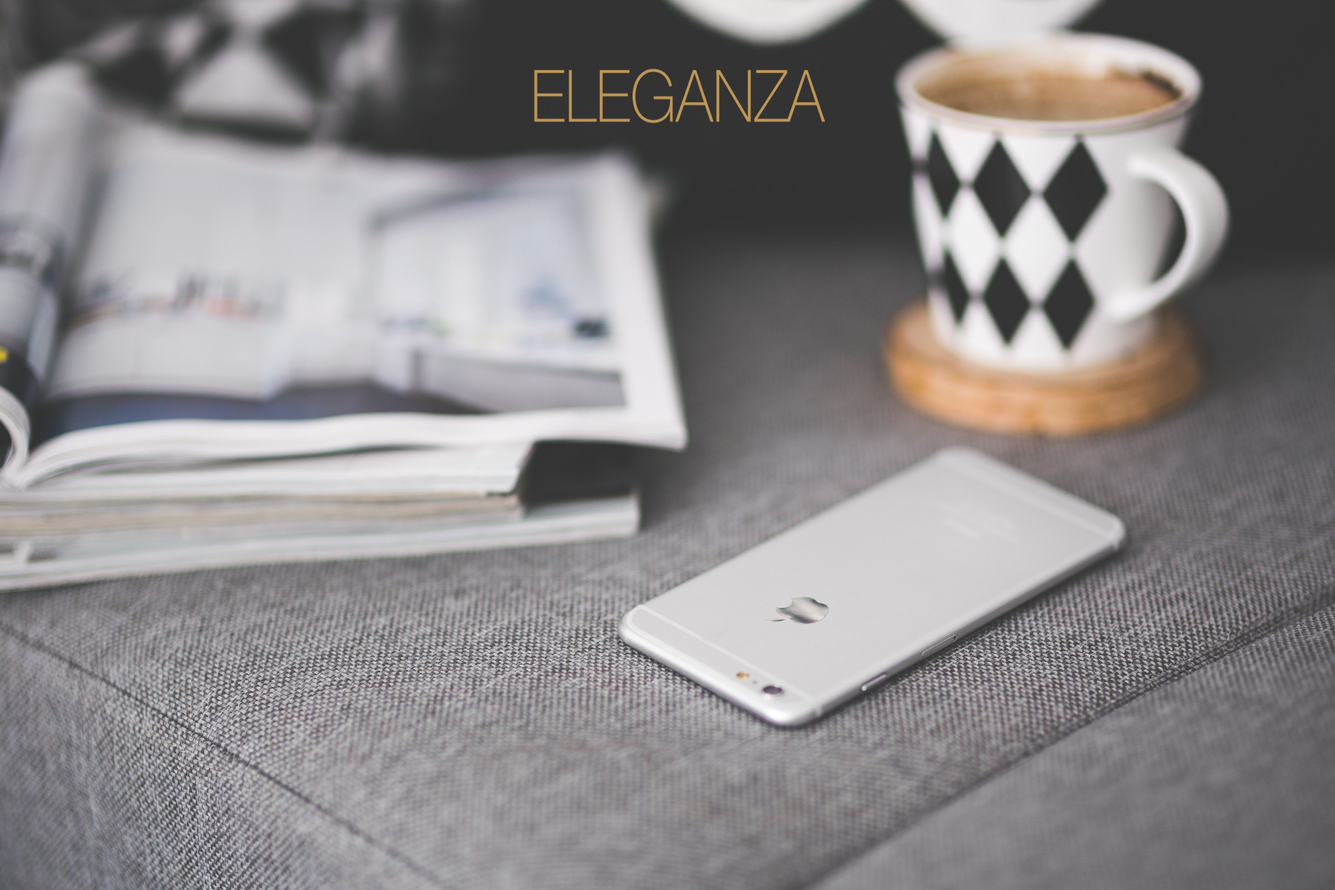
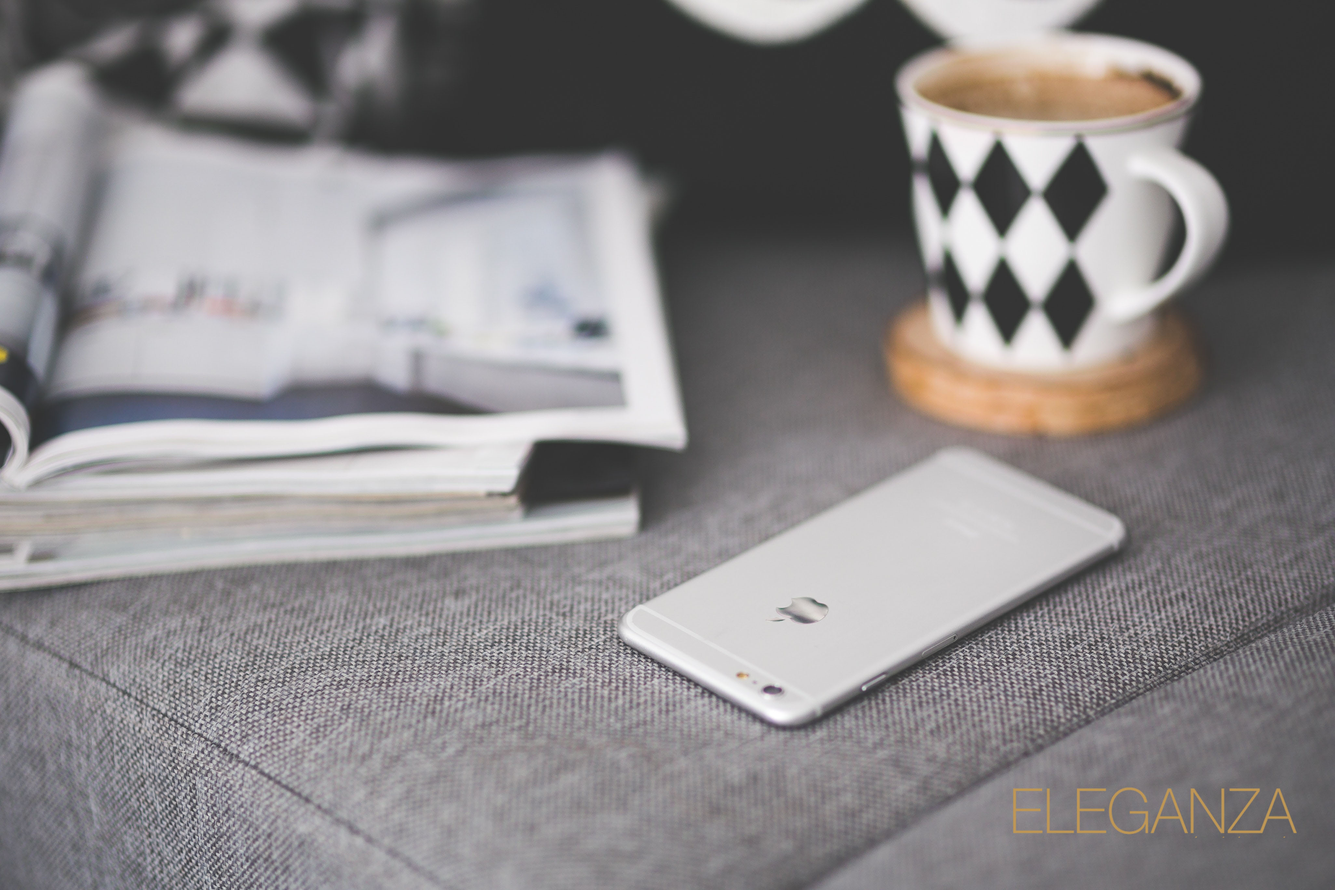
Subscriber

Changed region(s): [[0.4055, 0.0621, 0.6238, 0.1553], [0.7485, 0.8699, 0.9669, 0.932]]

diff --git a/subscriber/assets/css/main.css b/subscriber/assets/css/main.css
@@ -544,9 +544,10 @@ input, select, textarea {
 
 		#header h1 {
 			font-size: 4.35em;
-			font-weight: 900;
+			font-weight: 300;
 			letter-spacing: -0.035em;
-			line-height: 1em;
+			font-family: 'Lato';
+			color: #d1af78;
 		}
 
 		#header p {
@@ -1079,3 +1080,41 @@ input, select, textarea {
 		    text-decoration:none;
 		    cursor:pointer;
 		   }
+
+			 .input-field label {
+			     color: #f8f9fa !important;
+			     position: absolute;
+			     top: 0.8rem;
+			     left: 0;
+			     font-size: 1.1rem !important;
+			     cursor: text;
+			     transition: .2s ease-out;
+			     text-align: initial;
+			 }
+			 .btn:hover, .btn-large:hover {
+			     background-color: #d1af78 !important;
+			 }
+.input-field input[type=text].invalid {
+	 color: #f8f9fa !important;
+}
+input:not([type]), input[type=text], input[type=password], input[type=email], input[type=url], input[type=time], input[type=date], input[type=datetime], input[type=datetime-local], input[type=tel], input[type=number], input[type=search], textarea.materialize-textarea {
+    background-color: transparent;
+    border: none;
+    border-bottom: 1px solid #9e9e9e;
+    border-radius: 0;
+    outline: none;
+    height: 3rem;
+    width: 100%;
+    font-size: 2rem !important ;
+    margin: 0 0 20px 0;
+    padding: 0;
+    box-shadow: none;
+    box-sizing: content-box;
+    transition: all 0.3s;
+}
+fieldset {
+    border: 4px solid #c0c0c0 !important;
+		border-style: double !important;
+    margin: 0 2px;
+    padding: 0.35em 0.625em 0.75em;
+}

diff --git a/subscriber/index.php b/subscriber/index.php
@@ -26,10 +26,10 @@ if(!empty($_SESSION['got'])){
     <link rel="stylesheet" href="assets/css/main.css"/>
 <link href="http://fonts.googleapis.com/icon?family=Material+Icons" rel="stylesheet">
 <link rel="stylesheet" href="https://cdnjs.cloudflare.com/ajax/libs/materialize/0.98.2/css/materialize.min.css">
-<link rel="stylesheet" href="https://stackpath.bootstrapcdn.com/bootstrap/4.1.3/css/bootstrap.min.css" integrity="sha384-MCw98/SFnGE8fJT3GXwEOngsV7Zt27NXFoaoApmYm81iuXoPkFOJwJ8ERdknLPMO" crossorigin="anonymous">
+<!-- <link rel="stylesheet" href="https://stackpath.bootstrapcdn.com/bootstrap/4.1.3/css/bootstrap.min.css" integrity="sha384-MCw98/SFnGE8fJT3GXwEOngsV7Zt27NXFoaoApmYm81iuXoPkFOJwJ8ERdknLPMO" crossorigin="anonymous"> -->
 <script src="https://code.jquery.com/jquery-3.3.1.slim.min.js" integrity="sha384-q8i/X+965DzO0rT7abK41JStQIAqVgRVzpbzo5smXKp4YfRvH+8abtTE1Pi6jizo" crossorigin="anonymous"></script>
 <script src="https://cdnjs.cloudflare.com/ajax/libs/popper.js/1.14.3/umd/popper.min.js" integrity="sha384-ZMP7rVo3mIykV+2+9J3UJ46jBk0WLaUAdn689aCwoqbBJiSnjAK/l8WvCWPIPm49" crossorigin="anonymous"></script>
-<script src="https://stackpath.bootstrapcdn.com/bootstrap/4.1.3/js/bootstrap.min.js" integrity="sha384-ChfqqxuZUCnJSK3+MXmPNIyE6ZbWh2IMqE241rYiqJxyMiZ6OW/JmZQ5stwEULTy" crossorigin="anonymous"></script>
+<!-- <script src="https://stackpath.bootstrapcdn.com/bootstrap/4.1.3/js/bootstrap.min.js" integrity="sha384-ChfqqxuZUCnJSK3+MXmPNIyE6ZbWh2IMqE241rYiqJxyMiZ6OW/JmZQ5stwEULTy" crossorigin="anonymous"></script> -->
 <style>
 nav {
 color: #fff;
@@ -59,19 +59,18 @@ line-height: 56px;
                   <p><?php echo $_SESSION['got']['l'] == 'e'?$agent['LP1_EN_SUB2']:$agent['LP1_FR_SUB2']?></p>
                   <p><?php echo html_entity_decode($_SESSION['got']['l'] == 'e'?$agent['LP1_EN_SUB3']:$agent['LP1_FR_SUB3'])?></p>
                   <p><?php echo $_SESSION['got']['l'] == 'e'?$agent['LP1_EN_SUB4']:$agent['LP1_FR_SUB4']?></p>
-                  <p><?php echo $_SESSION['got']['l'] == 'e'?$agent['LP1_EN_SUB5']:$agent['LP1_FR_SUB5']?></p>
-                  <p><button type="button" id="free" class="btn btn-primary btn-lg btn-next" ><?php echo $_SESSION['got']['l'] == 'e'?$agent['LP1_EN_BTN']:$agent['LP1_FR_BTN']?></button></p>
+                  <p style="color:#d1af78;font-weight: 700 !important;"><?php echo $_SESSION['got']['l'] == 'e'?$agent['LP1_EN_SUB5']:$agent['LP1_FR_SUB5']?></p>
+                  <p><button type="button" id="free" style="background-color:#d1af78;" class="btn btn-primary btn-lg btn-next" ><?php echo $_SESSION['got']['l'] == 'e'?$agent['LP1_EN_BTN']:$agent['LP1_FR_BTN']?></button></p>
 
 					<!-- part info -->
 </fieldset>
 <fieldset id="cta" hidden>
-  <div class="container">
-                <div class="form-container z-depth-5" >
-<h3><?php echo $_SESSION['got']['l'] == 'e'?$agent['LP2_EN_TITLE']:$agent['LP2_FR_TITLE']?></h3>
+<div class="container">
+	<p style="color:#d1af78;font-weight: 700 !important;"><?php echo $_SESSION['got']['l'] == 'e'?$agent['LP2_EN_TITLE']:$agent['LP2_FR_TITLE']?></p>
 				<div class="row">
             <div class="input-field col s12">
                 <input id="name" required type="text" name="name" class="validate">
-                <label for="name"><?php echo $_SESSION['got']['l'] == 'e'?$agent['LP2_EN_NAME_LBL']:$agent['LP2_FR_NAME_LBL']?><sup style="color:red">*</sup></label>
+                <label for="name" data-error="Please enter your name."><?php echo $_SESSION['got']['l'] == 'e'?$agent['LP2_EN_NAME_LBL']:$agent['LP2_FR_NAME_LBL']?><sup style="color:red">*</sup></label>
             </div>
         </div>
 
@@ -98,23 +97,24 @@ line-height: 56px;
             <!--<button class="waves-effect waves-light btn submitbtn" type="submit">Submit</button>-->
         </div>
       </div>
-    </div>
+
 </fieldset>
 <fieldset id="subscribe" hidden>
       <!-- Header -->
           <h1><?php echo $_SESSION['got']['l'] == 'e'?$agent['LP3_EN_TITLE']:$agent['LP3_FR_TITLE']?></h1>
           <p><?php echo $_SESSION['got']['l'] == 'e'?$agent['LP3_EN_SUB1']:$agent['LP3_FR_SUB1']?></p>
-<p><a href="https://eleganzamagazine.com/subscribe-buy-now/?t=un" style="text-decoration:none"><button type="button" class="btn btn-primary btn-lg" ><?php echo $_SESSION['got']['l'] == 'e'?$agent['LP3_EN_SUB2']:$agent['LP3_FR_SUB2']?></button></a></p>
+					<p><a href="https://eleganzamagazine.com/subscribe-buy-now/?t=un" style="text-decoration:none" target="_blank"><button type="button" class="btn btn-primary btn-lg" ><?php echo $_SESSION['got']['l'] == 'e'?$agent['LP3_EN_SUB2']:$agent['LP3_FR_SUB2']?></button></a></p>
 
 </fieldset>
 </header>
-<nav>
+</div>
+<!-- <nav>
   <ul>
     <li><a href="#" class="icon fa-twitter"><span class="label">Twitter</span></a></li>
     <li><a href="#" class="icon fa-facebook"><span class="label">Facebook</span></a></li>
     <li><a href="#" class="icon fa-instagram"><span class="label">Instagram</span></a></li>
   </ul>
-</nav>
+</nav> -->
 
 </div>
 </div>
@@ -157,20 +157,29 @@ line-height: 56px;
 
 $('#free').on('click', function () {
   $('#cta').removeAttr('hidden');
-  $('#head').empty();
+  $('#head').remove();
   //$('#subscribe').attr('hiiden');
 });
 $('#submit').on('click', function () {
   next_step=true;
   var re = /^(([^<>()\[\]\\.,;:\s@"]+(\.[^<>()\[\]\\.,;:\s@"]+)*)|(".+"))@((\[[0-9]{1,3}\.[0-9]{1,3}\.[0-9]{1,3}\.[0-9]{1,3}])|(([a-zA-Z\-0-9]+\.)+[a-zA-Z]{2,}))$/;
   if ($('#name').val() == "") {
-						$('#name').addClass('input-error');
+						$("#name").next("label").attr('data-error','The name field is required');
+						$("#name").removeClass("valid");
+						$("#name").addClass("invalid");
+						$('#name').addClass('data-error');
 						next_step = false;
 	} else if ($('#mail').val() == "") {
-						$('#mail').addClass('input-error');
+						$("#mail").next("label").attr('data-error','The address field is required');
+						$("#mail").removeClass("valid");
+						$("#mail").addClass("invalid");
+						$('#mail').addClass('data-error');
 						next_step = false;
 	}else if (!re.test($('#email').val())) {
-						$('#email').addClass('input-error');
+						$("#email").next("label").attr('data-error','The email field is required');
+						$("#email").removeClass("valid");
+						$("#email").addClass("invalid");
+						$('#email').addClass('data-error');
 						next_step = false;
 	}
 
@@ -179,7 +188,7 @@ $('#submit').on('click', function () {
 						lead_id = data.trim();
 						console.log(lead_id);
 					});
-  $('#cta').empty();
+  $('#cta').remove();
   $('#subscribe').removeAttr('hidden');
 }
   //$('#subscribe').attr('hiiden');
